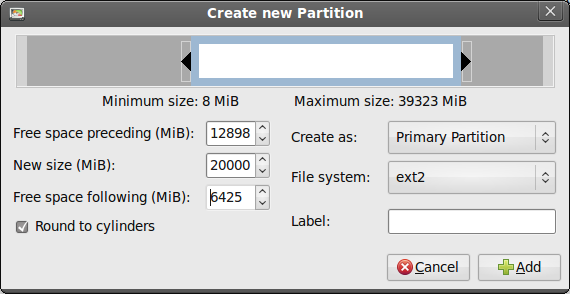
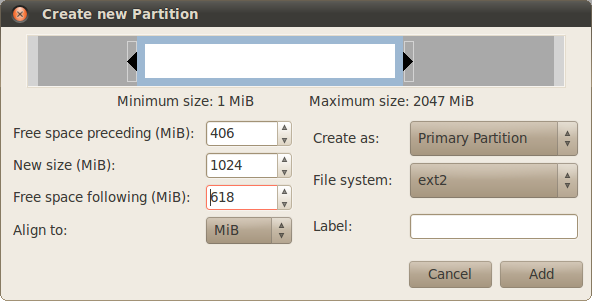
Update create partition and resize/move partition screenshots

diff --git a/htdocs/screenshots.php b/htdocs/screenshots.php
@@ -86,9 +86,6 @@ GParted Live boot menu...
 <br>
 <a href="screens/gparted_12_big.png" >
 	<img src="screens/gparted_12_small.png" alt="GParted Live boo menu"></a>
-<br>
-<br>
-* Updated screenshots from GParted 0.5.1 provided by Vlad Vacariu. 
 </p>
 
 </div>
